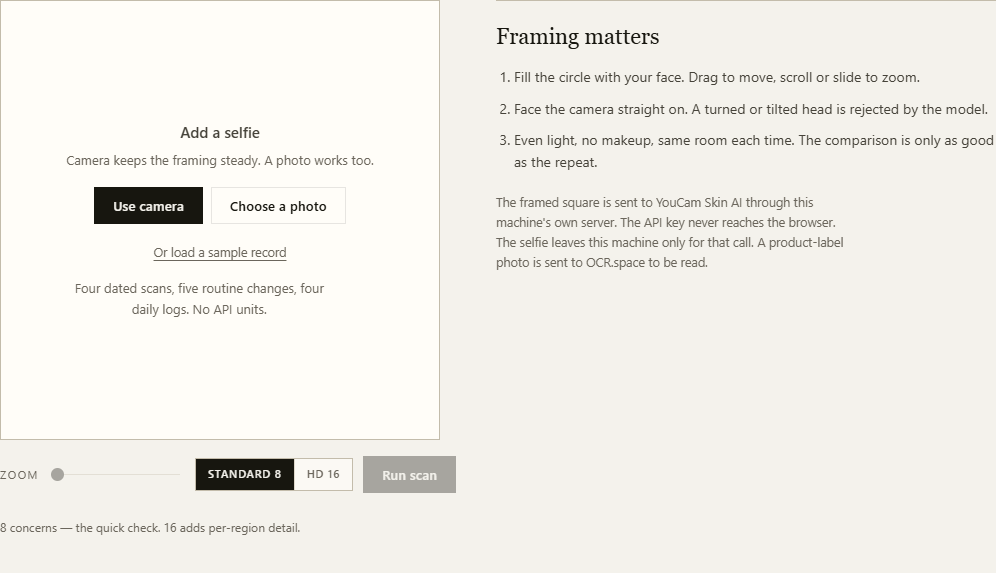
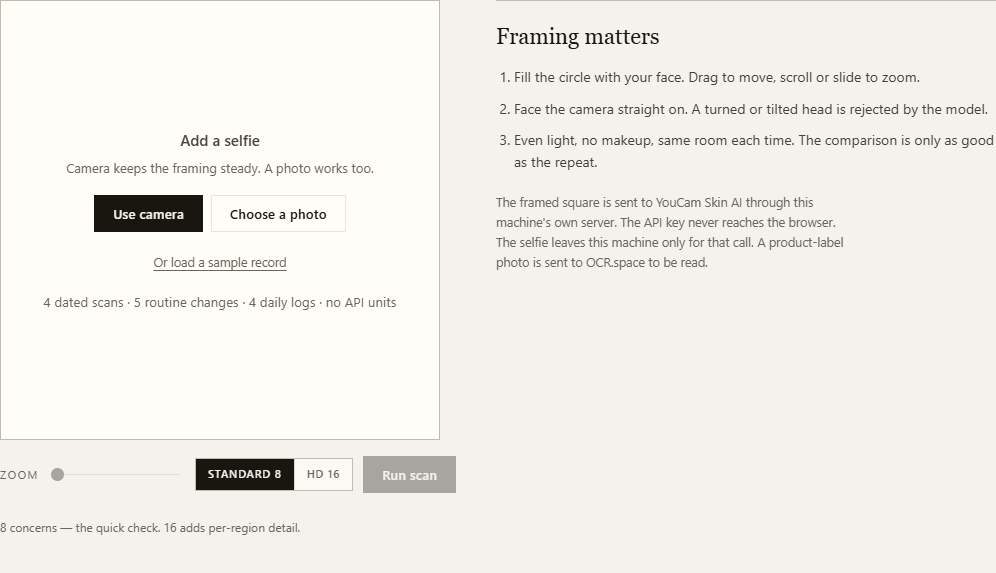
One-line sample note under the capture actions

Changed region(s): [[0.0311, 0.2077, 0.4046, 0.5637], [0.2179, 0.356, 0.3424, 0.3857]]

diff --git a/styles.css b/styles.css
@@ -591,10 +591,10 @@ button.chip:hover { border-color: var(--ink); color: var(--ink); }
 
 .anote { margin: 4px 0 10px; font-size: 12.5px; line-height: 1.45; color: var(--muted); }
 
-.empty-note { display: block; margin-top: 10px; text-align: center; max-width: 34ch; }
+
 /* --- empty state: satu baris aksi, sample sebagai link --- */
 .link-btn {
-  margin-top: 12px;
+  margin-top: 14px;
   background: none;
   border: 0;
   padding: 0;
@@ -607,7 +607,7 @@ button.chip:hover { border-color: var(--ink); color: var(--ink); }
 }
 .link-btn:hover { color: var(--ink-2); }
 .link-btn:focus-visible { outline: 2px solid var(--accent); outline-offset: 3px; border-radius: 2px; }
-.empty-note { max-width: 38ch; }
+.empty-note { display: block; margin-top: 14px; text-align: center; max-width: none; white-space: nowrap; letter-spacing: .01em; }
 /* sembunyikan tombol pilih di toolbar selama stage masih kosong */
 .capture:has(#empty:not([hidden])) #pick,
 .capture:has(#empty:not([hidden])) #camOpen { display: none; }

diff --git a/index.html b/index.html
@@ -49,7 +49,7 @@
             <button type="button" class="btn ghost" id="emptyPick">Choose a photo</button>
           </div>
           <button type="button" class="link-btn" id="emptyDemo">Or load a sample record</button>
-          <span class="fine empty-note">Four dated scans, five routine changes, four daily logs. No API units.</span>
+          <span class="fine empty-note">4 dated scans · 5 routine changes · 4 daily logs · no API units</span>
         </div>
 
         <div class="cam" id="cam" role="dialog" aria-modal="true" aria-label="Camera framing" hidden>
